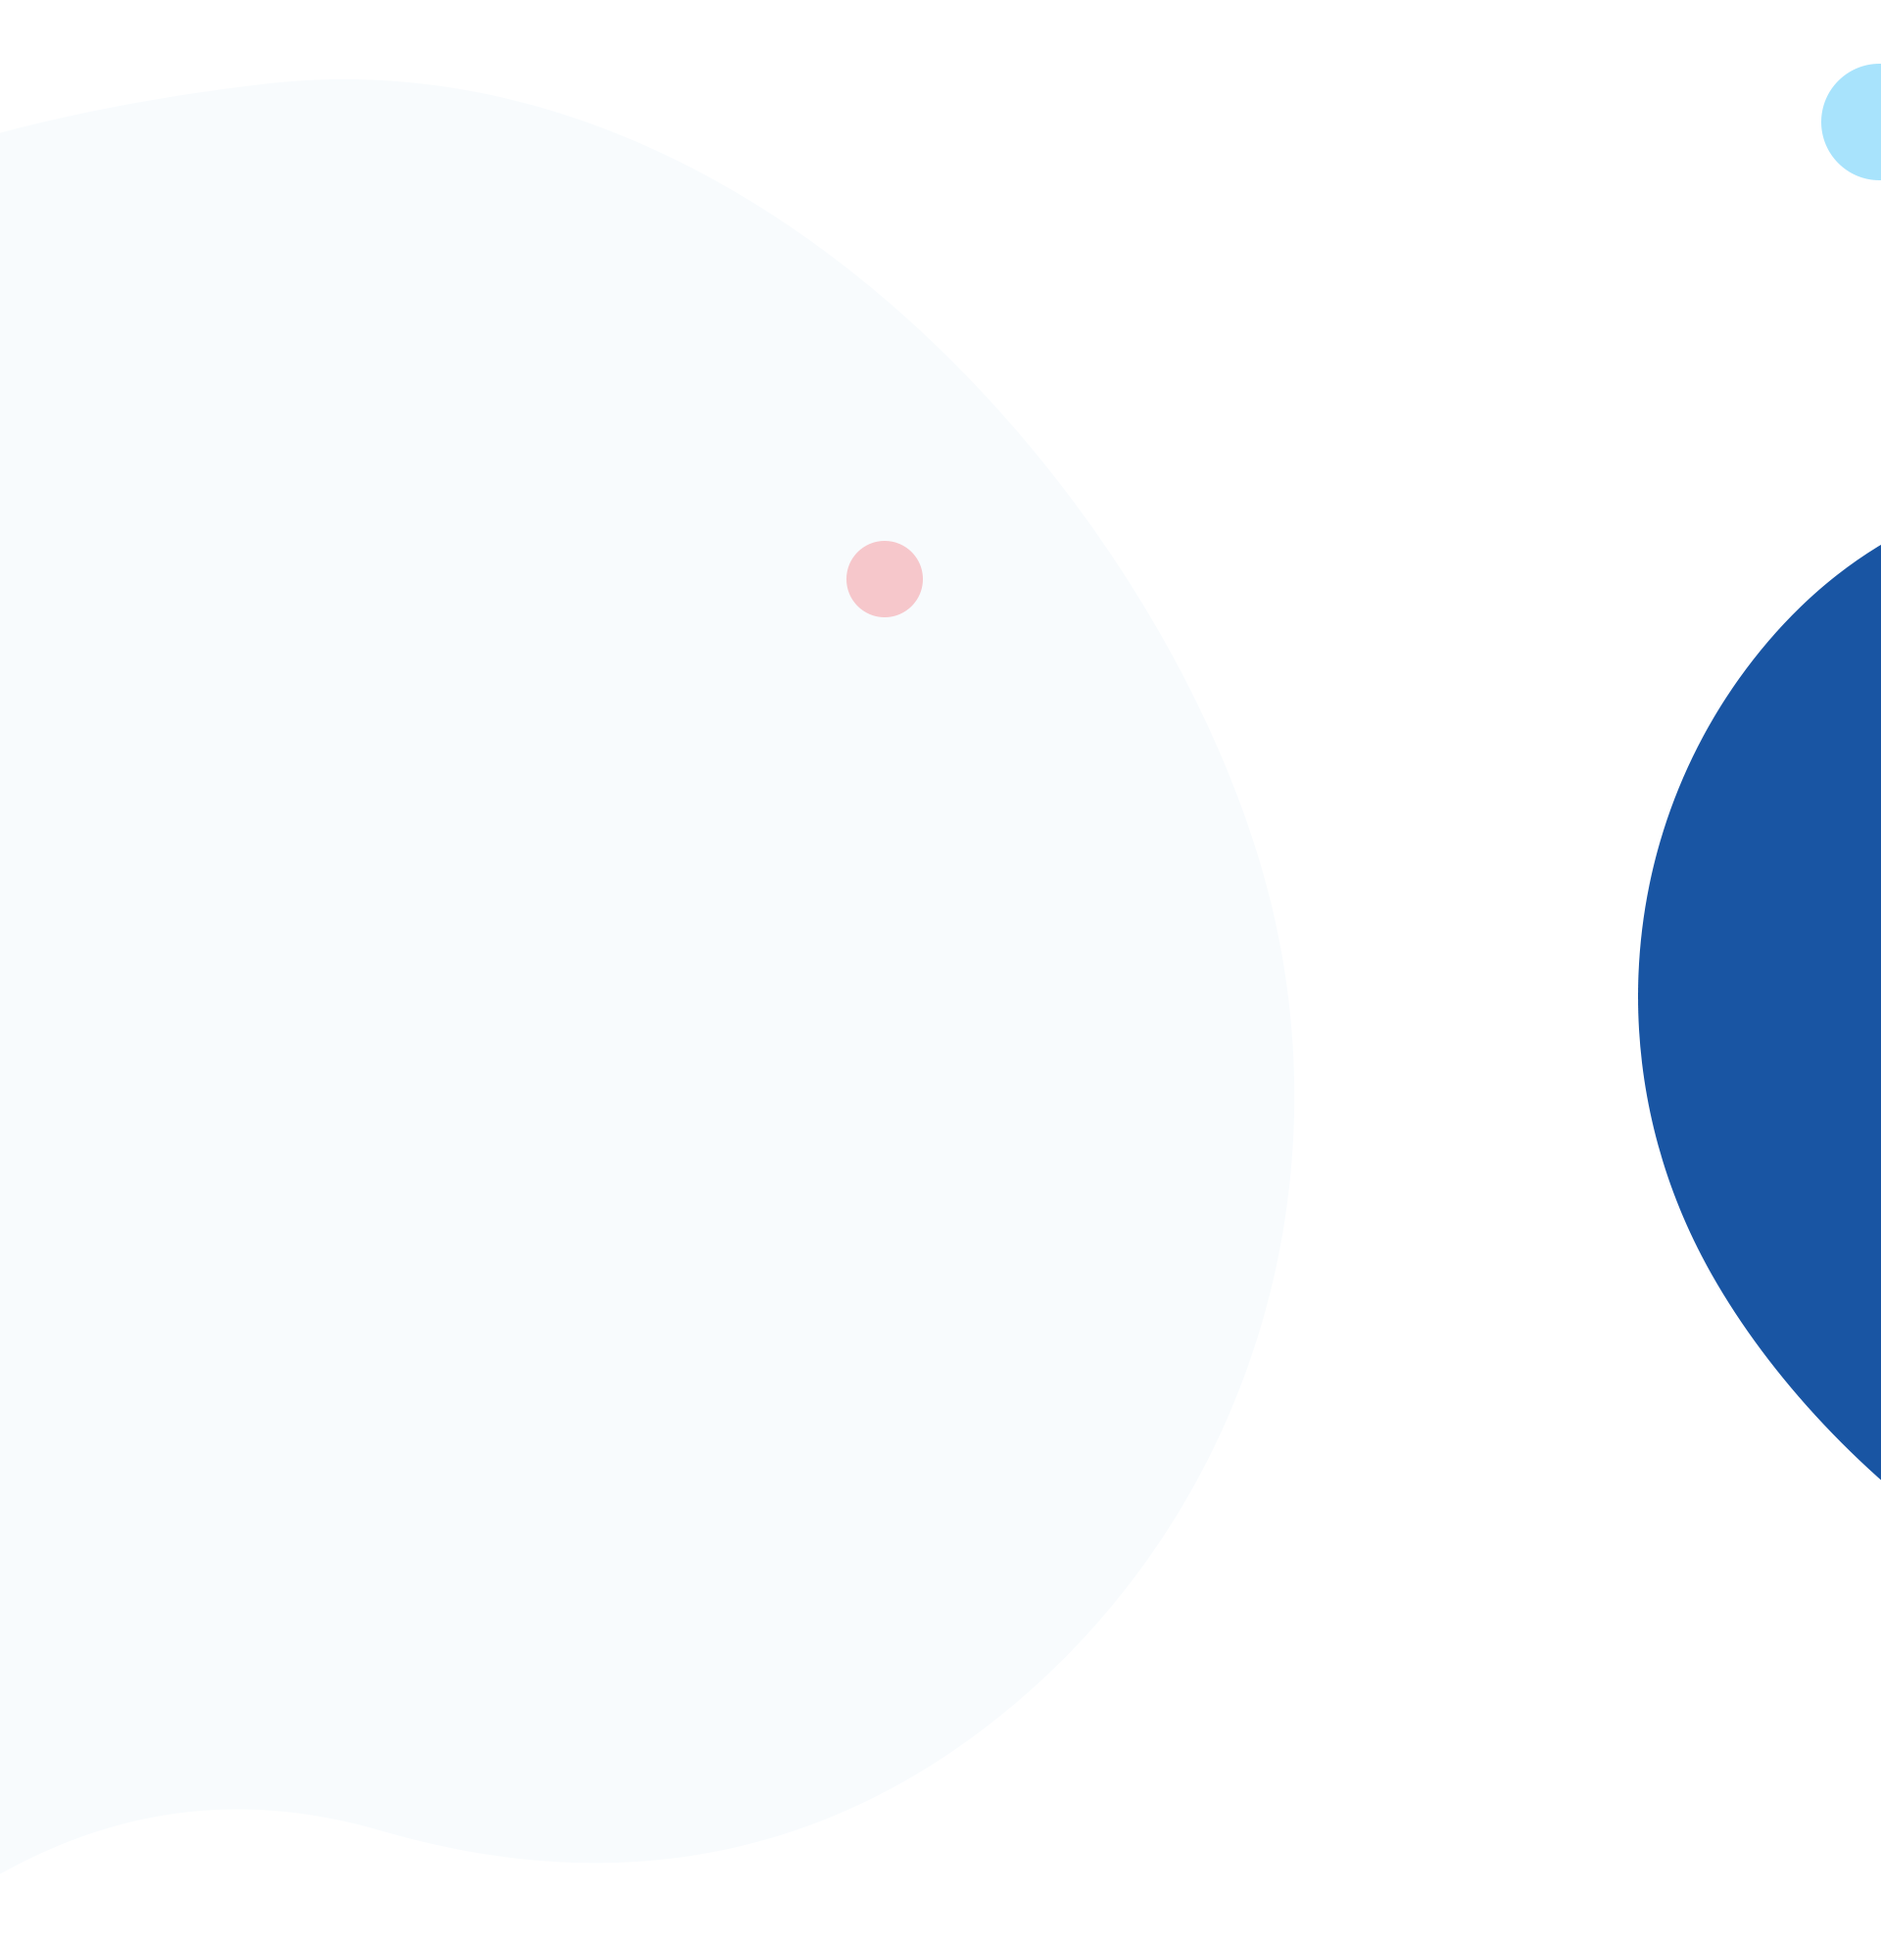
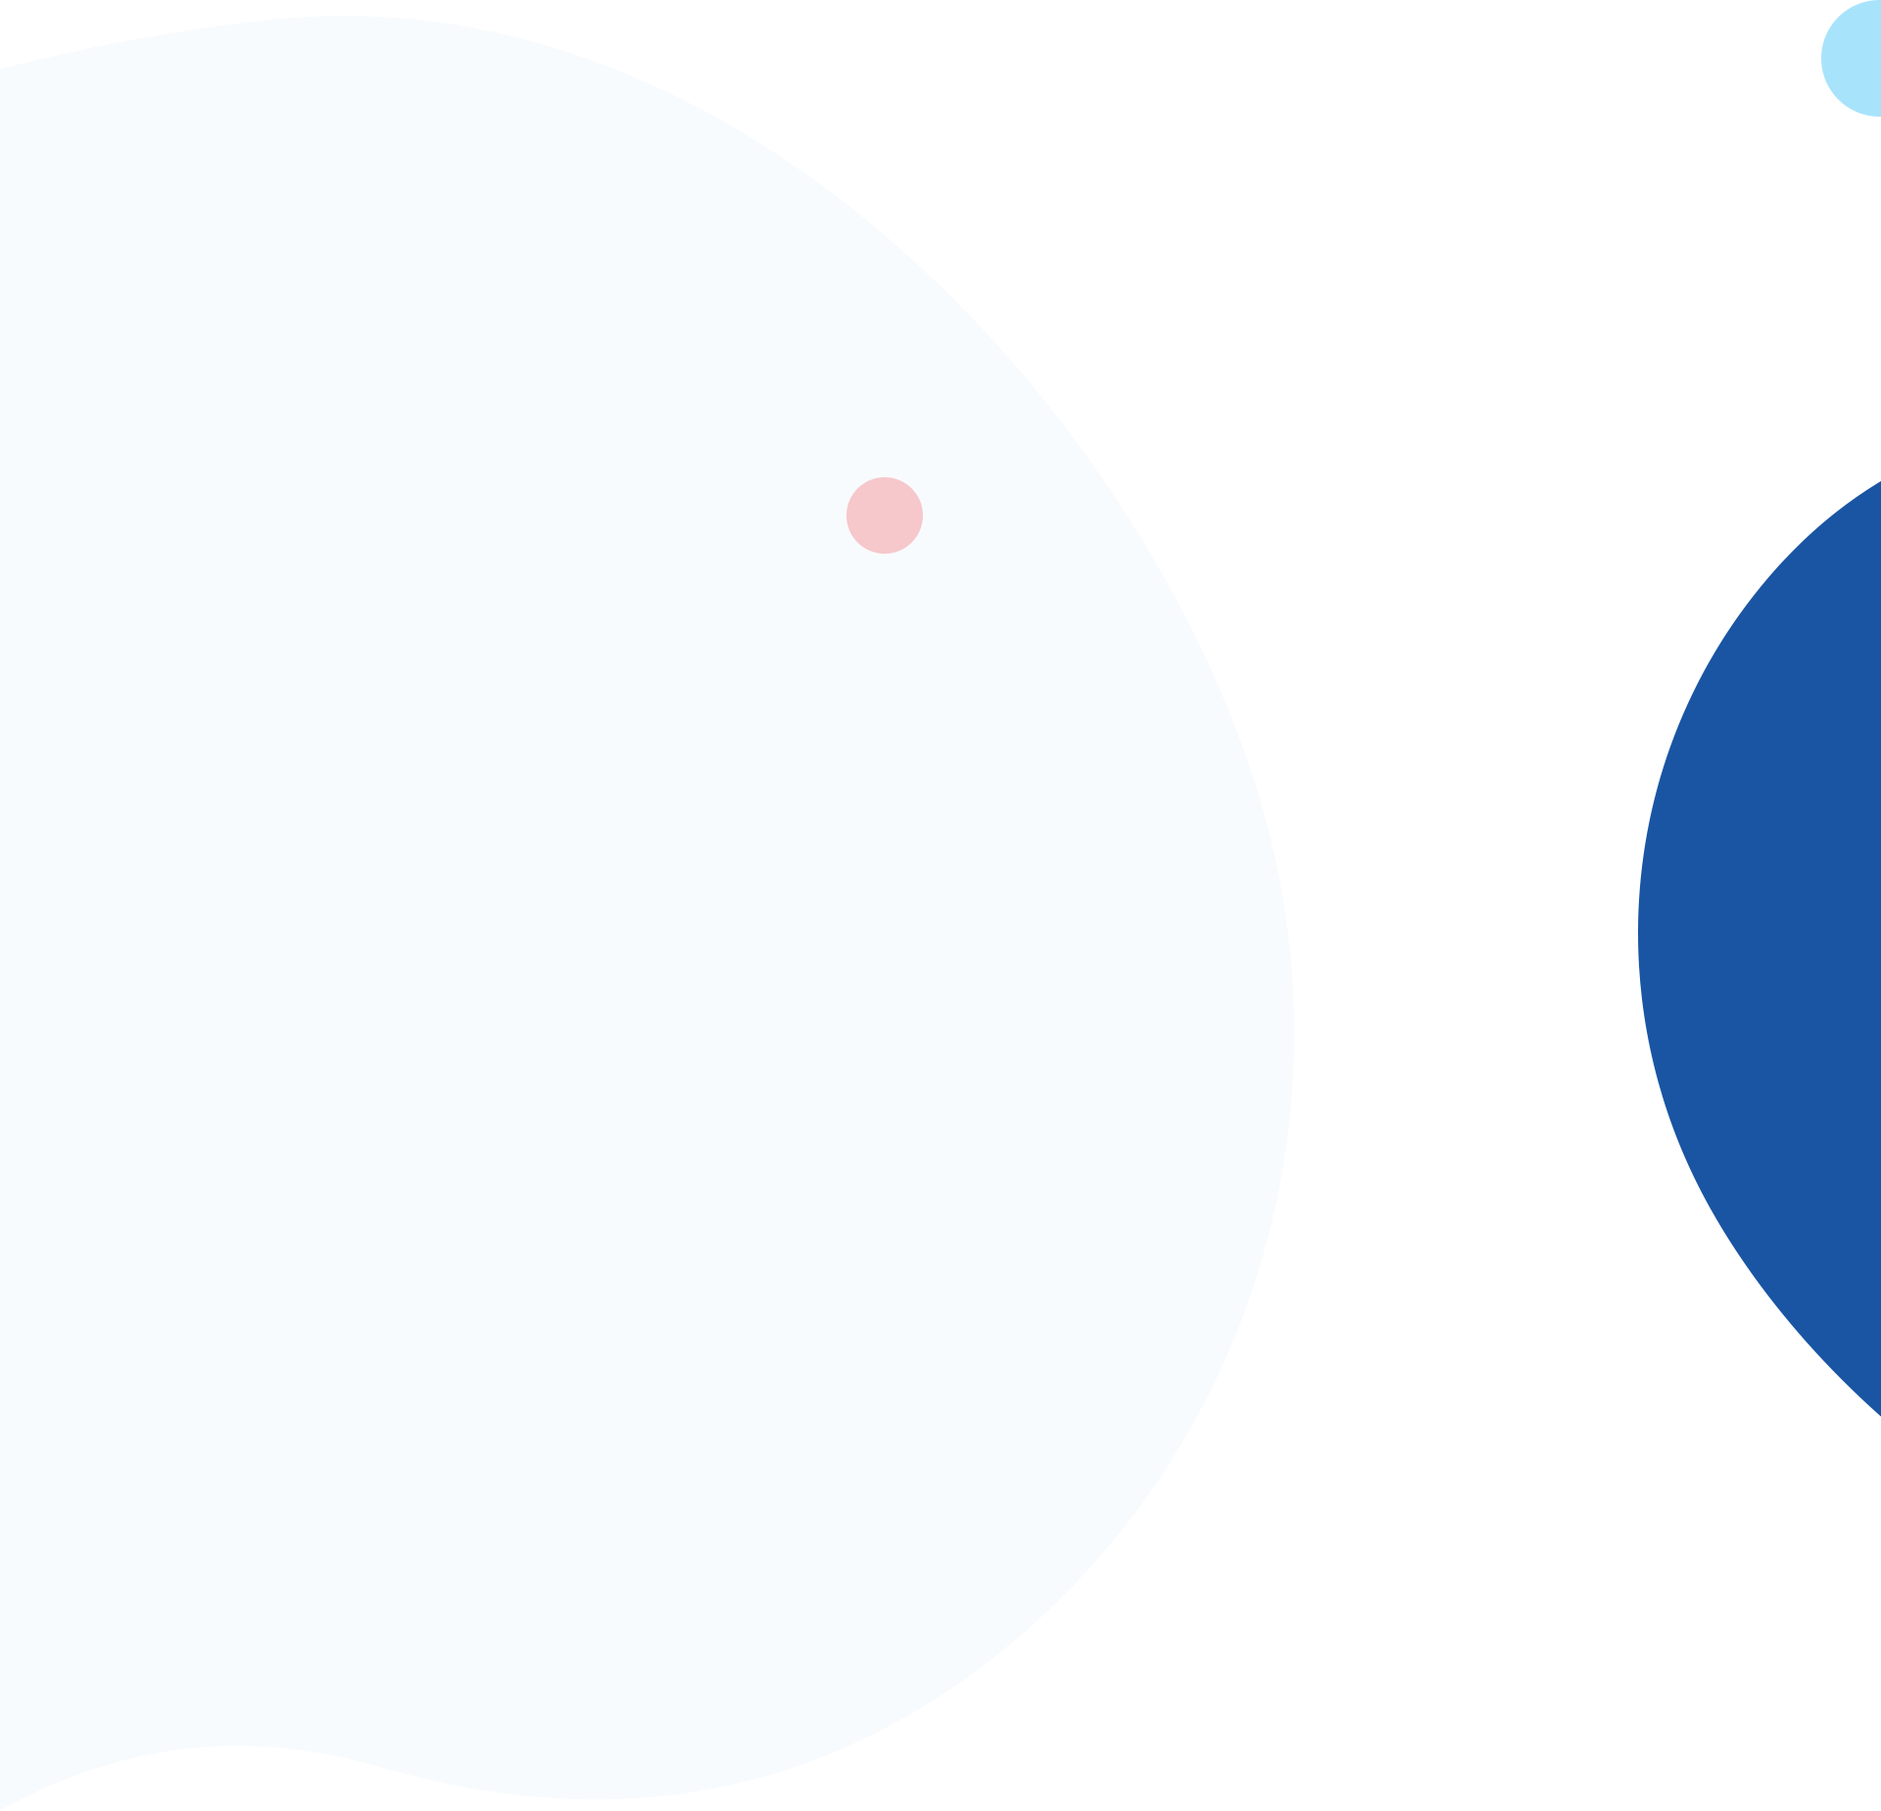
section  История успеха

diff --git a/build/index.html b/build/index.html
@@ -73,6 +73,22 @@
             </div>
           </div>
         </div>
+        <div class="section section__history">
+          <div class="section__row-1">
+            <h2 class="section__tittle">Хочу поделится историей моего успеха</h2>
+          </div>
+          <div class="section__row-2">
+            <div class="container">
+              <div class="history__box">
+                <div class="history__box-img"><img class="history__box-img--photo" src="img/section/section__history/man.jpg" alt=""></div>
+                <div class="history__box-info">
+                  <div class="history__box-tittle">Меня зовут Александр Владимирович</div>
+                  <div class="history__box-text">Lorem ipsum dolor sit amet consectetur adipisicing elit. Reprehenderit expedita nobis dolorem error excepturi exercitationem explicabo natus. Suscipit perspiciatis earum, repellat animi deserunt pariatur perferendis enim modi dicta autem nihil.Lorem ipsum dolor sit amet consectetur, adipisicing elit. Soluta aliquid aspernatur quaerat rerum cumque vero provident placeat? Doloremque adipisci recusandae facilis eius vero, totam aliquam nobis distinctio, consequatur, laudantium est.Lorem ipsum dolor sit amet consectetur, adipisicing elit. Soluta aliquid aspernatur quaerat rerum cumque vero provident placeat? Doloremque adipisci recusandae facilis eius vero, totam aliquam nobis distinctio, consequatur, laudantium es.Lorem ipsum dolor sit amet consectetur, adipisicing elit. Soluta aliquid aspernatur quaerat rerum cumque vero provident placeat? Doloremque adipisci recusandae facilis eius vero, totam aliquam nobis distinctio, consequatur, laudantium es</div>
+                </div>
+              </div>
+            </div>
+          </div>
+        </div>
       </div>
     </div>
   </body>

diff --git a/build/css/style.css b/build/css/style.css
@@ -250,7 +250,7 @@ input[type="submit"] {
 .section__problem {
   background-image: url("../img/section/section__problem/background.png");
   background-repeat: no-repeat;
-  background-position: initial;
+  background-position: top center;
   background-size: cover; }
 
 .section__row-1 {
@@ -296,3 +296,32 @@ input[type="submit"] {
   font-weight: 300;
   color: #546e7a;
   line-height: 1.8; }
+
+.history__box {
+  display: flex;
+  justify-content: center; }
+
+.history__box-img {
+  border-radius: 7px;
+  overflow: hidden;
+  margin-right: 20px;
+  width: 420px; }
+
+.history__box-info {
+  max-width: 910px;
+  display: flex;
+  justify-content: center;
+  flex-direction: column; }
+
+.history__box-tittle {
+  color: #263238;
+  font-size: 24px;
+  font-weight: bold;
+  margin-bottom: 60px;
+  margin-bottom: 10px; }
+
+.history__box-text {
+  font-size: 18px;
+  font-weight: 300;
+  color: #546e7a;
+  line-height: 1.4; }

diff --git a/src/style/section__history.scss b/src/style/section__history.scss
@@ -1,0 +1,33 @@
+.history__box {
+	display: flex;
+	justify-content: center;
+}
+
+.history__box-img {
+	border-radius: 7px;
+	overflow: hidden;
+	margin-right: 20px;
+	width: 420px;
+}
+
+.history__box-info {
+	max-width: 910px;
+	display: flex;
+	justify-content: center;
+	flex-direction: column;
+}
+
+.history__box-tittle {
+	color: #263238;
+	font-size: 24px;
+	font-weight: bold;
+	margin-bottom: 60px;
+	margin-bottom: 10px;
+}
+
+.history__box-text {
+	font-size: 18px;
+	font-weight: 300;
+	color: $problem__box-info--text;
+	line-height: 1.4;
+}

diff --git a/src/style/section__problem.scss b/src/style/section__problem.scss
@@ -5,7 +5,7 @@
 .section__problem {
 	background-image: url("../img/section/section__problem/background.png");
 	background-repeat: no-repeat;
-	background-position: initial;
+	background-position: top center;
 	background-size: cover;
 }
 

diff --git a/src/style/style.sass b/src/style/style.sass
@@ -3,4 +3,5 @@
 @import "main.scss"
 @import "header.scss"
 @import "section__problem.scss"
+@import "section__history.scss"
 
